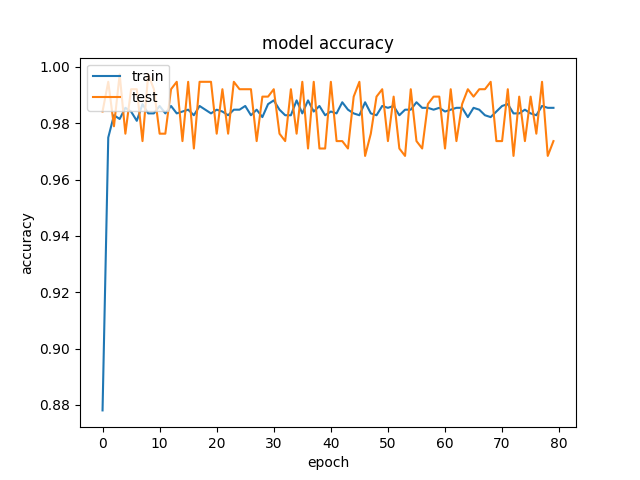
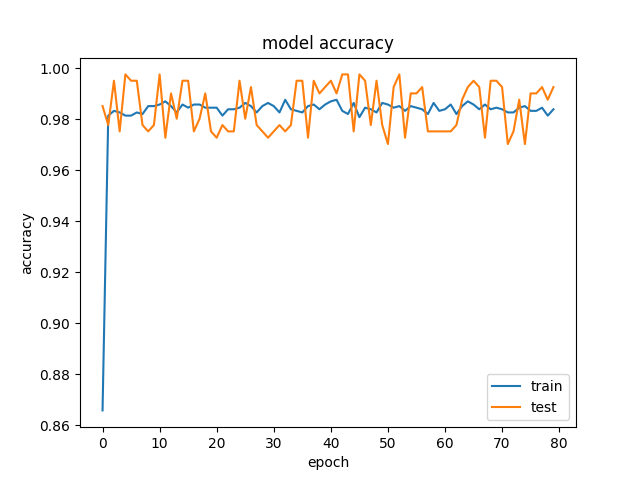
Added information about network and dataset

diff --git a/methods.tex b/methods.tex
@@ -5,6 +5,19 @@
 \label{sec:dataset}
 
 Describe the used Dataset, and how it looks like.
+The Dataset contains 659 papers in PDF format.
+
+For the bag of words and the neural network a dataset was generated. This dataset contains all chapter names, and the corresponding class. 
+At a preprocessing step... stopwords and symbols removed, stemmed, and lower case... Few examples are:
+
+\begin{itemize}[label={}]
+  \item introduct: INDRODUCTION
+  \item relat work: BACKGROUND
+  \item conclus futur work: DISCUSSION
+  \item result discuss: RESULTS DISCUSSION
+\end{itemize}
+
+Overall the dataset has 1897 enties. The chapter names contain 359 different word tokens.
 
 \section{Preprocessing}
 \label{sec:preprocessing}
@@ -23,6 +36,57 @@ Describe the Data Structure from the Tool Output. How it was changed in the prep
 \section{Chapters to IMRaD mapping}
 \label{sec:chapters-to-imrad-mapping}
 
+Descripe general idea
+
+\subsection{Creating the Feature Vector}
+\label{subsec:creating-feature-vector}
+
+\begin{tabular}{| c | c | c |}
+\hline
+\rowcolor{lightblue}
+\textbf{word} & \textbf{counted in datase}t & \textbf{feature} \\ \hline
+introduct & 457 & yes \\ \hline
+conclus & 451 & yes \\ \hline
+work & 324 & yes \\ \hline
+relat & 193 & yes \\ \hline
+result & 182 & yes \\ \hline
+experi & 147 & yes \\ \hline
+evalu & 143 & yes \\ \hline
+futur & 117 & yes \\ \hline
+abstract & 117 & yes \\ \hline
+discuss & 115 & yes \\ \hline
+experiment & 98 & yes \\ \hline
+acknowledg & 72 & yes \\ \hline
+analysi & 48 & yes \\ \hline
+background & 37 & yes \\ \hline
+summari & 24 & yes \\ \hline
+methodolog & 24 & yes \\ \hline
+setup & 18 & yes \\ \hline
+dataset & 18 & yes \\ \hline
+previou & 17 & yes \\ \hline
+data & 16 & yes \\ \hline
+empir & 14 & yes \\ \hline
+vi & 14 & no \\ \hline
+method & 14 & yes \\ \hline
+comparison & 14 & yes \\ \hline
+model & 12 & yes \\ \hline
+vii & 12 & no \\ \hline
+resourc & 11 & yes \\ \hline
+iii & 10 & no \\ \hline
+gener & 10 & yes \\ \hline
+iv & 10 & no \\ \hline
+system & 10 & yes \\ \hline
+research & 9 & yes \\ \hline
+set & 9 & yes \\ \hline
+task & 8 & yes \\ \hline
+propos & 8 & yes \\ \hline
+outlook & 7 & yes \\ \hline
+measur & 7 & yes \\ \hline
+\end{tabular}
+
+\subsection{Classify Chapters via a Neural Network}
+\label{subsec:creating-feature-vector}
+
 Describe how the Neural Network is used to label the Capters.
 
 \myfig{accuracy_nn}
@@ -36,13 +100,19 @@ Describe how the Neural Network is used to label the Capters.
       {Loss during the training of the neural network. Categorical Crossentropy is used as loss function}
       {Loss during the training of the neural network}
       {fig:loss_nn}
-      
-      
-loss: 0.055154 \\
-acc: 0.988930 \\
-recall: 0.971540 \\
-precision: 0.998419 \\
-f1: 0.984600 \\
+
+loss: 0.060084        \\
+acc: 0.989071         \\
+recall: 0.971722      \\
+precision: 0.998510   \\
+f1: 0.984738
+
+
+
+
+
+
+
 
 
 %\chapter{Information Retrieval}

diff --git a/main.tex b/main.tex
@@ -178,8 +178,7 @@
 %% ========================================================================
 
 %% ... it's OK to put here your own usepackage commands ...
-
-
+\usepackage{color, colortbl}
 
 
 %% ========================================================================
@@ -187,7 +186,7 @@
 %% ========================================================================
 
 %% ... it's OK to put here your own newcommand/newenvironment-definitions ...
-
+\definecolor{lightblue}{rgb}{0.93,0.95,1.0}
 
 
 

diff --git a/related-work.tex b/related-work.tex
@@ -1,5 +1,5 @@
-\chapter{Related Work}
-\label{cha:related-work}
+\chapter{Background}
+\label{cha:background}
 
 \section{Underlying Framework}
 \label{sec:underlying-framework}
